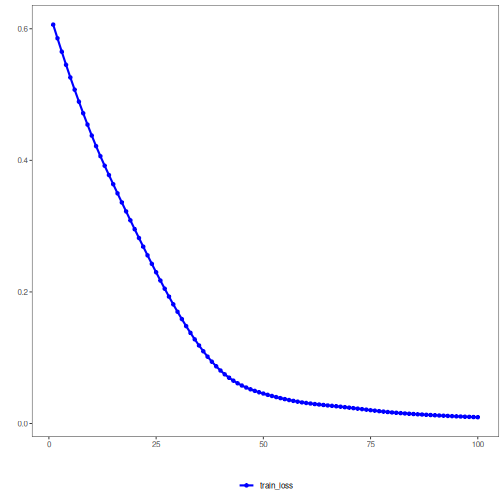
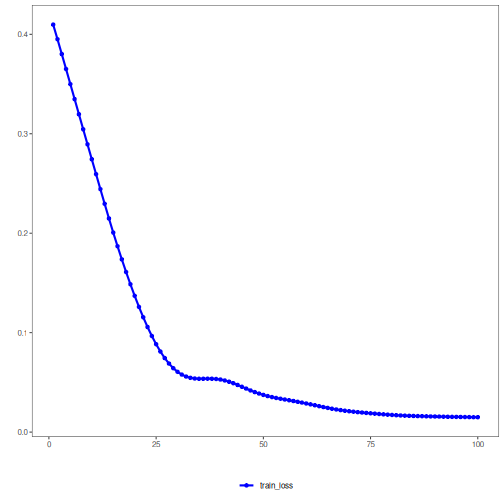
examples

diff --git a/examples/autoencoder/21_autoenc_ed_static_patience.md b/examples/autoencoder/21_autoenc_ed_static_patience.md
@@ -1,0 +1,110 @@
+## 21. Autoencoder (Encode-Decode) with Static Validation and Patience
+
+This example keeps the simple dense autoencoder architecture, but changes the training regime to use a fixed validation split and patience-based early stopping. It is useful when reconstruction quality matters and you want a stable reference validation subset across epochs.
+
+Prerequisites
+- Reticulate configured and Python with PyTorch installed
+- R packages: daltoolbox, tspredit, daltoolboxdp, ggplot2
+
+
+``` r
+# Installing packages
+#install.packages("tspredit")
+#install.packages("daltoolboxdp")
+```
+
+
+``` r
+# Loading packages
+library(daltoolbox)
+library(tspredit)
+library(daltoolboxdp)
+library(ggplot2)
+```
+
+
+``` r
+# Example dataset (series -> windows)
+data(tsd)
+
+sw_size <- 5
+ts <- ts_data(tsd$y, sw_size)
+
+preproc <- ts_norm_gminmax()
+preproc <- fit(preproc, ts)
+ts <- transform(preproc, ts)
+
+samp <- ts_sample(ts, test_size = 10)
+train <- as.data.frame(samp$train)
+test <- as.data.frame(samp$test)
+```
+
+
+``` r
+# Static validation with patience-based early stopping
+auto <- autoenc_ed(
+  5, 3,
+  epochs = 300L,
+  validation_strategy = "static",
+  stopping_rule = "patience",
+  patience = 20L,
+  val_ratio = 0.2
+)
+auto <- fit(auto, train)
+```
+
+Training configuration
+- `validation_strategy = "static"` keeps the same validation partition during the whole training run.
+- `stopping_rule = "patience"` stops training when validation loss does not improve for a chosen number of epochs.
+- `epochs = 300L` is only an upper bound; the effective number of epochs is determined by early stopping.
+
+
+``` r
+# Effective training duration
+print(length(auto$train_loss))
+```
+
+```
+## [1] 300
+```
+
+
+``` r
+# Training and validation curves
+fit_loss <- data.frame(x = seq_along(auto$train_loss), train_loss = auto$train_loss)
+if (!is.null(auto$val_loss) && length(auto$val_loss) > 0) {
+  fit_loss$val_loss <- auto$val_loss
+}
+
+colors <- if ("val_loss" %in% names(fit_loss)) c("Blue", "Orange") else c("Blue")
+grf <- plot_series(fit_loss, colors = colors)
+plot(grf)
+```
+
+![plot of chunk unnamed-chunk-6](fig/21_autoenc_ed_static_patience/unnamed-chunk-6-1.png)
+
+
+``` r
+# Testing: reconstruction of the test set
+result <- transform(auto, test)
+result <- as.data.frame(result)
+names(result) <- names(test)
+print(head(result))
+```
+
+```
+##          t4        t3        t2        t1        t0
+## 1 0.7262827 0.8230802 0.9121844 0.9636005 0.9935867
+## 2 0.8251619 0.9052964 0.9696078 0.9902289 0.9902962
+## 3 0.9040825 0.9652139 0.9996211 0.9901654 0.9586834
+## 4 0.9657982 0.9970065 0.9988040 0.9571426 0.8954175
+## 5 0.9962200 0.9944488 0.9606155 0.9002054 0.8145471
+## 6 0.9940477 0.9632283 0.8936421 0.8173189 0.7103570
+```
+
+Notes
+- This setup is easier to interpret because all epochs are judged against the same validation subset.
+- To compare with redrawn validation splits, see `22_autoenc_ed_dynamic_patience`.
+
+References
+- Goodfellow, I., Bengio, Y., & Courville, A. (2016). Deep Learning. MIT Press. (Chapter on Autoencoders)

diff --git a/examples/autoencoder/22_autoenc_ed_dynamic_patience.md b/examples/autoencoder/22_autoenc_ed_dynamic_patience.md
@@ -1,0 +1,110 @@
+## 22. Autoencoder (Encode-Decode) with Dynamic Validation and Patience
+
+This example keeps the same simple dense autoencoder architecture, but redraws the validation split at each epoch. It is useful when a single fixed holdout seems too brittle for the available data.
+
+Prerequisites
+- Reticulate configured and Python with PyTorch installed
+- R packages: daltoolbox, tspredit, daltoolboxdp, ggplot2
+
+
+``` r
+# Installing packages
+#install.packages("tspredit")
+#install.packages("daltoolboxdp")
+```
+
+
+``` r
+# Loading packages
+library(daltoolbox)
+library(tspredit)
+library(daltoolboxdp)
+library(ggplot2)
+```
+
+
+``` r
+# Example dataset (series -> windows)
+data(tsd)
+
+sw_size <- 5
+ts <- ts_data(tsd$y, sw_size)
+
+preproc <- ts_norm_gminmax()
+preproc <- fit(preproc, ts)
+ts <- transform(preproc, ts)
+
+samp <- ts_sample(ts, test_size = 10)
+train <- as.data.frame(samp$train)
+test <- as.data.frame(samp$test)
+```
+
+
+``` r
+# Dynamic validation with patience-based early stopping
+auto <- autoenc_ed(
+  5, 3,
+  epochs = 300L,
+  validation_strategy = "dynamic",
+  stopping_rule = "patience",
+  patience = 20L,
+  val_ratio = 0.2
+)
+auto <- fit(auto, train)
+```
+
+Training configuration
+- `validation_strategy = "dynamic"` redraws the validation split at each epoch.
+- `stopping_rule = "patience"` stops training when recent validation values stop improving enough.
+- `epochs = 300L` is only a ceiling; the realized duration depends on early stopping.
+
+
+``` r
+# Effective training duration
+print(length(auto$train_loss))
+```
+
+```
+## [1] 198
+```
+
+
+``` r
+# Training and validation curves
+fit_loss <- data.frame(x = seq_along(auto$train_loss), train_loss = auto$train_loss)
+if (!is.null(auto$val_loss) && length(auto$val_loss) > 0) {
+  fit_loss$val_loss <- auto$val_loss
+}
+
+colors <- if ("val_loss" %in% names(fit_loss)) c("Blue", "Orange") else c("Blue")
+grf <- plot_series(fit_loss, colors = colors)
+plot(grf)
+```
+
+![plot of chunk unnamed-chunk-6](fig/22_autoenc_ed_dynamic_patience/unnamed-chunk-6-1.png)
+
+
+``` r
+# Testing: reconstruction of the test set
+result <- transform(auto, test)
+result <- as.data.frame(result)
+names(result) <- names(test)
+print(head(result))
+```
+
+```
+##          t4        t3        t2        t1        t0
+## 1 0.7341992 0.8316329 0.9144543 0.9783357 0.9959475
+## 2 0.8392407 0.9183757 0.9663505 0.9922336 0.9854301
+## 3 0.9220429 0.9817311 0.9886963 0.9766881 0.9470644
+## 4 0.9825926 1.0155282 0.9854522 0.9344487 0.8853105
+## 5 1.0114759 1.0120234 0.9533769 0.8667711 0.8000152
+## 6 1.0051498 0.9787415 0.8955949 0.7792678 0.6946990
+```
+
+Notes
+- Dynamic validation typically produces a noisier validation curve than the static case.
+- To compare with a fixed validation split, see `21_autoenc_ed_static_patience`.
+
+References
+- Goodfellow, I., Bengio, Y., & Courville, A. (2016). Deep Learning. MIT Press. (Chapter on Autoencoders)

diff --git a/examples/autoencoder/01_autoenc_e.md b/examples/autoencoder/01_autoenc_e.md
@@ -32,20 +32,6 @@ Steps
 ``` r
 # Loading required packages
 library(daltoolbox)
-```
-
-```
-## 
-## Attaching package: 'daltoolbox'
-```
-
-```
-## The following object is masked from 'package:base':
-## 
-##     transform
-```
-
-``` r
 library(tspredit)
 library(daltoolboxdp)
 library(ggplot2)
@@ -156,13 +142,13 @@ print(head(result))
 ```
 
 ```
-##           [,1]      [,2]       [,3]
-## [1,] -1.696848 -1.030595 -0.6962085
-## [2,] -1.785064 -1.109295 -0.7654132
-## [3,] -1.815425 -1.154813 -0.8173396
-## [4,] -1.793859 -1.173855 -0.8533626
-## [5,] -1.721776 -1.164908 -0.8722921
-## [6,] -1.603236 -1.127941 -0.8733118
+##            [,1]      [,2]       [,3]
+## [1,] -0.8496088 0.9715996 -0.7870337
+## [2,] -0.8944652 1.0527227 -0.8533332
+## [3,] -0.9118177 1.1005423 -0.8889802
+## [4,] -0.8968036 1.1074293 -0.8888928
+## [5,] -0.8491573 1.0694983 -0.8489845
+## [6,] -0.7756076 0.9994130 -0.7784725
 ```
 
 References

diff --git a/examples/autoencoder/README.md b/examples/autoencoder/README.md
@@ -32,3 +32,7 @@ Encoder-decoder
 - [15_autoenc_stacked_ed.md](15_autoenc_stacked_ed.md) — Stacked autoencoder (encode-decode) for deeper reconstruction pipelines.
 - [16_autoenc_variational_ed.md](16_autoenc_variational_ed.md) — Variational autoencoder (encode-decode) optimizing the ELBO for smooth latent spaces and reconstruction.
 - [17_autoenc_adv_ed.md](17_autoenc_adv_ed.md) — Adversarial autoencoder (encode-decode) combining reconstruction with adversarial latent regularization.
+
+Training regimes for the simple encoder-decoder
+- [21_autoenc_ed_static_patience.md](21_autoenc_ed_static_patience.md) — Simple autoencoder with static validation and patience-based early stopping.
+- [22_autoenc_ed_dynamic_patience.md](22_autoenc_ed_dynamic_patience.md) — Simple autoencoder with dynamic validation and patience-based early stopping.

diff --git a/examples/classification/07_torch_cla_mlp.md b/examples/classification/07_torch_cla_mlp.md
@@ -79,8 +79,8 @@ print(test_eval$metrics)
 ```
 
 ```
-##    accuracy TP TN FP FN precision recall sensitivity specificity f1
-## 1 0.9666667 11 19  0  0         1      1           1           1  1
+##   accuracy TP TN FP FN precision recall sensitivity specificity f1
+## 1        1 11 19  0  0         1      1           1           1  1
 ```
 
 